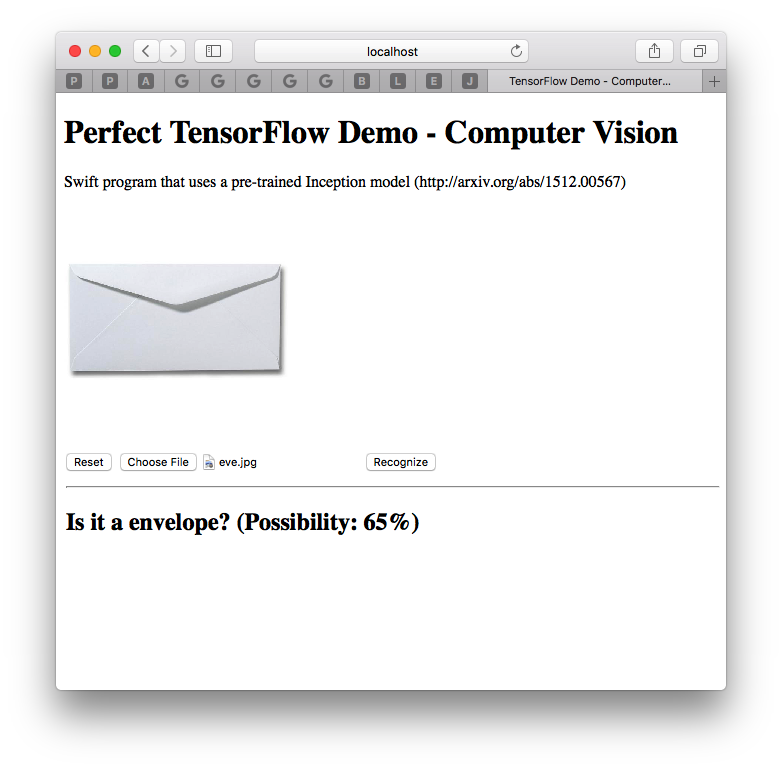
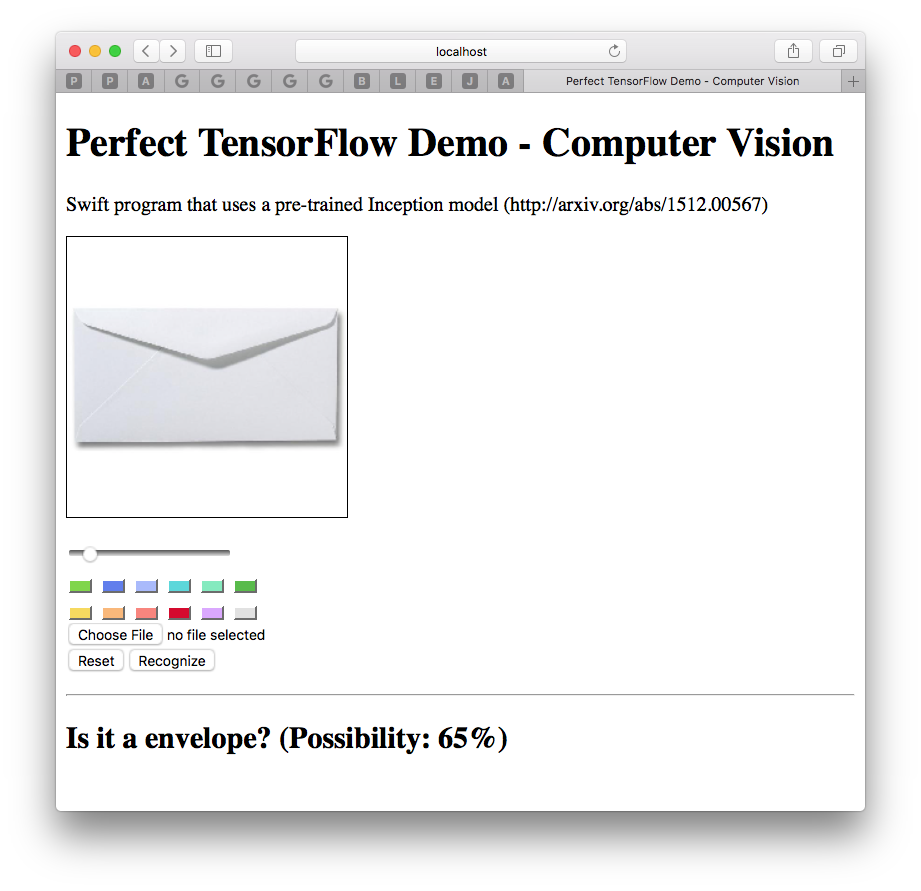
Adding drag / drop / coloured scribble support

Changed region(s): [[0.0614, 0.0312, 0.9514, 0.9351], [0.4604, 0.5922, 0.5524, 0.6234]]

diff --git a/webroot/index.html b/webroot/index.html
@@ -14,6 +14,13 @@
   var x = "black",
       y = 2;
 
+  function setColor(color) {
+    x = color;
+  }
+
+  function setPen(size) {
+    y = size;
+  }
   function init() {
     outcome = document.getElementById('Outcome');
     canvas = document.getElementById('hwcanvas');
@@ -49,11 +56,40 @@
     canvas.addEventListener("mouseout", function (e) {
         findxy('out', e)
     }, false);
+
+    canvas.addEventListener("dragover", function (e) {
+        e.preventDefault();
+    }, false);
+
+    canvas.addEventListener("drop", function (e) {
+        reset();
+        var files = e.dataTransfer.files;
+        if (files.length > 0) {
+          var file = files[0];
+          if (typeof FileReader !== "undefined" && file.type.indexOf("image") != -1) {
+              var reader = new FileReader();
+              reader.onload = function(e) {
+                var img = new Image();
+                img.src = e.target.result;
+                img.onload = function () {
+                  var w = img.width;
+                  var h = img.height;
+                  var len = w > h ? h : w;
+                  ctx.drawImage(img, 0, 0, h, h, 0, 0, 224, 224);
+                }//end img
+              };//end function
+              reader.readAsDataURL(file);
+          }//end if
+        }//end if
+        e.preventDefault();
+    }, false);
+
+
     reset();
   }
 
   function draw() {
-    ctx.fillStyle = "rgb(0,0,0)";
+    ctx.fillStyle = x;
     ctx.beginPath();
     ctx.moveTo(prevX, prevY);
     ctx.lineTo(currX, currY);
@@ -111,12 +147,29 @@
 </script>
 </head>
 <body onload='init()'>
-  <H1>Perfect TensorFlow Demo - Computer Vision</H1>
+<H1>Perfect TensorFlow Demo - Computer Vision</H1>
   <P>Swift program that uses a pre-trained Inception model (http://arxiv.org/abs/1512.00567)</P>
-  <canvas id="hwcanvas" width=224 height=224></canvas>
-  <p><input type=Reset onclick='reset()'>
-    <input type="file" id="file_input">
-    <input type=button value='Recognize' onclick='recog()'>
+  <canvas id="hwcanvas" width=224 height=224 style="border:1px solid #000000;"></canvas>
+  <p>
+    <input type="range" onchange="setPen(this.value)" value="2" min="1" max="12"><br>
+  <button style="padding: 4px 8px; background-color: #000000" onclick="setColor('#000000')" tag="Black"></button>
+  <button style="padding: 4px 8px; background-color: #7bd148" onclick="setColor('#7bd148')" tag="Green"></button>
+  <button style="padding: 4px 8px; background-color: #5484ed" onclick="setColor('#5484ed')" tag="Bold blue"></button>
+  <button style="padding: 4px 8px; background-color: #a4bdfc" onclick="setColor('#a4bdfc')" tag="Blue"></button>
+  <button style="padding: 4px 8px; background-color: #46d6db" onclick="setColor('#46d6db')" tag="Turquoise"></button>
+  <button style="padding: 4px 8px; background-color: #7ae7bf" onclick="setColor('#7ae7bf')" tag="Light green"></button>
+  <button style="padding: 4px 8px; background-color: #51b749" onclick="setColor('#51b749')" tag="Bold green"></button>
+  <br>
+  <button style="padding: 4px 8px; background-color: #fbd75b" onclick="setColor('#fbd75b')" tag="Yellow"></button>
+  <button style="padding: 4px 8px; background-color: #ffb878" onclick="setColor('#ffb878')" tag="Orange"></button>
+  <button style="padding: 4px 8px; background-color: #ff887c" onclick="setColor('#ff887c')" tag="Red"></button>
+  <button style="padding: 4px 8px; background-color: #dc2127" onclick="setColor('#dc2127')" tag="Bold red"></button>
+  <button style="padding: 4px 8px; background-color: #dbadff" onclick="setColor('#dbadff')" tag="Purple"></button>
+  <button style="padding: 4px 8px; background-color: #e1e1e1" onclick="setColor('#e1e1e1')" tag="Gray"></button>
+  <button style="padding: 4px 8px; background-color: #ffffff" onclick="setColor('#ffffff')" tag="White"></button>
+<br>
+    <input type="file" id="file_input"><br>
+    <input type=Reset onclick='reset()'><input type=button value='Recognize' onclick='recog()'>
   </p><hr>
   <H2 id='Outcome'></H2>
 </body>

diff --git a/Sources/main.swift b/Sources/main.swift
@@ -113,10 +113,12 @@ func handler(data: [String:Any]) throws -> RequestHandler {
       response.setHeader(.contentType, value: "text/json")
         .appendBody(string: "{\"value\": \"Is it a \(tag)? (Possibility: \(p)%)\"}")
         .completed()
+      print(tag, p)
     }catch {
       response.setHeader(.contentType, value: "text/json")
         .appendBody(string: "{\"value\": \"\(error)\"}")
         .completed()
+      print("\(error)")
     }
   }
 }
